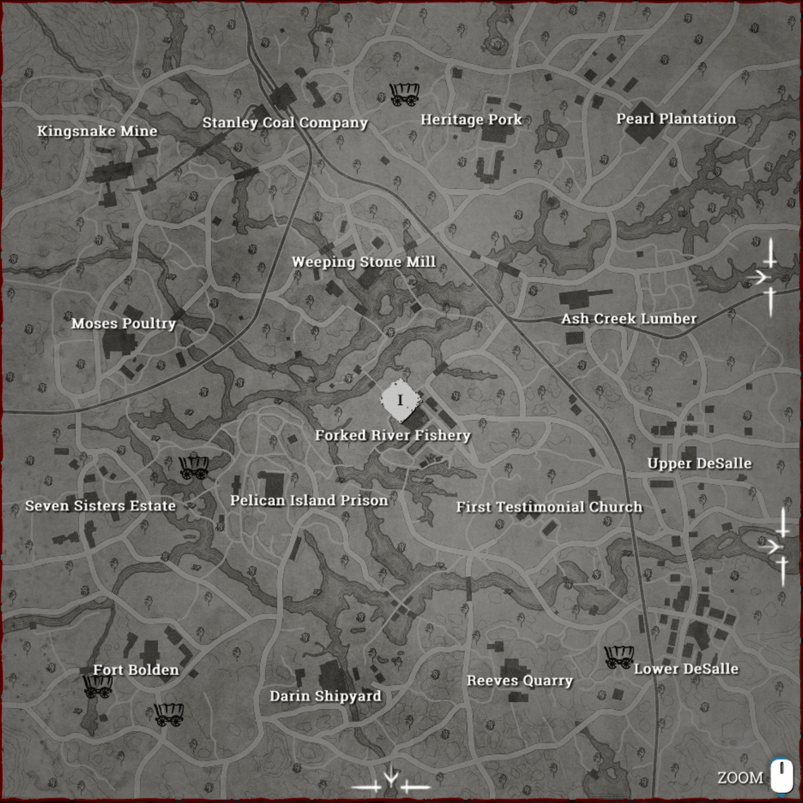
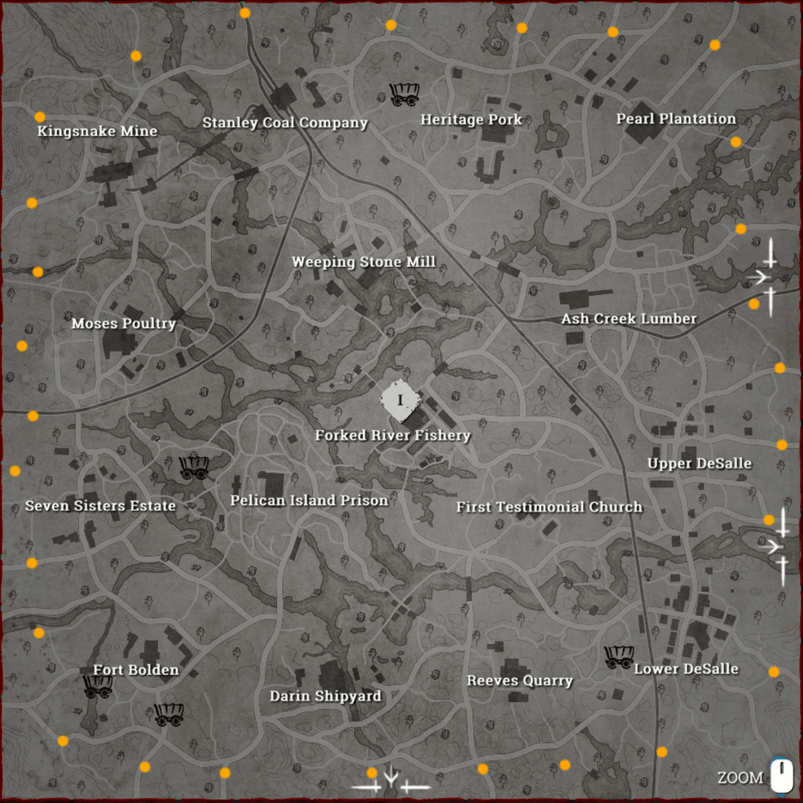
added ammo and penetration, map change, 1963

diff --git a/damage_range.html b/damage_range.html
@@ -28,11 +28,11 @@
                 <ul class="navbar-nav">
                     <li class="nav-item"><a class="nav-link active" href="home.html" style="color: #b4ae75;filter: brightness(109%);">Home</a></li>
                     <li class="nav-item"><a class="nav-link active" href="damage_range.html" style="color: #b4ae75;filter: brightness(109%);">Damage &amp; Range</a></li>
-                    <li class="nav-item"><a class="nav-link active" href="#" style="color: #b4ae75;filter: brightness(109%);">Weapons Library</a></li>
-                    <li class="nav-item"><a class="nav-link active" href="#" style="color: #b4ae75;filter: brightness(109%);">Items</a></li>
+                    <li class="nav-item isDisabled"><a class="nav-link active" href="#" style="color: #b4ae75;filter: brightness(109%);">Weapons Library</a></li>
+                    <li class="nav-item isDisabled"><a class="nav-link active" href="#" style="color: #b4ae75;filter: brightness(109%);">Items</a></li>
                     <li class="nav-item"><a class="nav-link active" href="traits.html" style="color: #b4ae75;filter: brightness(109%);">Traits</a></li>
                     <li class="nav-item"><a class="nav-link active" href="maps.html" style="color: #b4ae75;filter: brightness(109%);">Maps</a></li>
-                    <li class="nav-item"><a class="nav-link active" href="#" style="color: #b4ae75;filter: brightness(109%);">Russian Roulette</a></li>
+                    <li class="nav-item isDisabled"><a class="nav-link active" href="#" style="color: #b4ae75;filter: brightness(109%);">Russian Roulette</a></li>
                 </ul>
             </div>
         </div>
@@ -56,6 +56,19 @@
                         </div>
                         <div class="col-4 mt-auto">
                             <input name="amountInput" id="rangeChoice" placeholder="range" class="number" type="number" value="" min="0" max="300" onkeyup="range(this.value)">
+                        </div>
+
+                    </div>
+                    <div class="row row-cols-2" style="margin-top: 23px;">
+                        <div class="col-6 d-xl-flex align-items-xl-center">
+                            <select disabled class="border-0 sw" name="specialAmmunitions" id="ammunition-select" onchange=>
+                                <option>Ammo</option>
+                            </select>
+                        </div>
+                        <div class="col-6 d-xl-flex align-items-xl-center">
+                            <select disabled class="border-0 sw" name="penetration" id="penetration-select" onchange= penValue>
+                                <option>Penetration</option>
+                            </select>
                         </div>
                     </div>
                 </div>
@@ -120,7 +133,6 @@
     </div>
     <script src="assets/bootstrap/js/bootstrap.min.js"></script>
     <script src="assets/js/weapons.js"></script>
-    <script src="./assets/js/damage.js"  type="text/javascript" ></script>
     <script src="./assets/js/script.js" type="text/javascript" ></script>
 </body>
 
@@ -132,7 +144,7 @@
     };
 
     const bodyParts = ['head', 'torso', 'stomach', 'arms', 'legs'];
-
+    // Array body part damage
     const compactBullet = [4.61, 1, .76, .61, .53];
     const compactPBullet = [4.61, 1, .76, .61, .53];
     const compactPSilBullet = [4.61, 1, .76, .61, .53];
@@ -146,9 +158,20 @@
     const shotgunBullet = [1.5, 1.3, 1.2, .8, .5];
     const specialNitro = [2, .52, .52, .25, .2];
     const specialDolch = [3.07, 1, .76, .61, .53];
-    const bomblanceBullet = [1, 1, 1, 1, 1]; // Array body part damage
+    const bomblanceBullet = [1, 1, 1, 1, 1]; 
 
+    // special ammo // 
+    const mediumFMJ = [3.84, 1, .76, .61, .53];
+    const longFMJ = [3.07, 1, .76, .61, .53];
+    const Spitzer = [3.07, 1, .76, .61, .53];
+    const longSilFMJ = [3.07, 1, .76, .61, .53];
+    const dumdum = 0.9;
+    const incendary = 0.75;
+    const poison = 0.75;
 
+    // penetration // 
+    const penetration = [1, 2, 3, 4, 5, 6, 7, 8]
+    
     const ammunitions = {
         Compact: compactBullet,
         CompactPistol: compactPBullet,
@@ -164,7 +187,18 @@
         SpecialNitro: specialNitro,
         SpecialDolch: specialDolch,
         Special: bomblanceBullet,
+
     };
+
+    const specialAmmunitions = {
+        MediumFMJ: mediumFMJ,
+        LongFMJ: longFMJ,
+        Spitzer: Spitzer,
+        LongSilFMJ: longSilFMJ,
+        Dumdum: dumdum,
+        Incendary: incendary,
+        Poison: poison,
+    }
 
     const getCorrectIndex = (range, rangeAmmunitionType) => {
         let index = -1;
@@ -248,7 +282,7 @@
                 }
                 break;
             case 'Compact':
-                if (range >= 0 && range < 20)
+                if (range >= 0 && range <= 20)
                     multiplier = 1;
                 else {
                     zw = [ [1,1], [1, 0.86], [0.86, 0.58], [0.58, 0.43], [0.43, 0.27], [0.27, 0.22], [0.1, 0.1] ];
@@ -259,7 +293,7 @@
                 }
                 break;
             case 'CompactPistol':
-                if (range >= 0 && range < 20)
+                if (range >= 0 && range <= 20)
                     multiplier = 1;
                 else {
                     zw = [ [1,1], [1, 0.84], [0.84, 0.53], [0.53, 0.37], [0.37, 0.25], [0.25, 0.22], [0.1, 0.1] ];
@@ -270,7 +304,7 @@
                 }
                 break;
             case 'CompactSil':
-                if (range >= 0 && range < 10)
+                if (range >= 0 && range <= 10)
                     multiplier = 1;
                 else {
                     zw = [ [1,1], [1, 0.77], [0.77, 0.39], [0.39, 0.28], [0.28, 0.21], [0.21, 0.2], [0.1, 0.1] ];
@@ -325,6 +359,15 @@
         document.getElementById('typeRange').value=value;
         showDamage();
     }
+    var select = document.getElementById('penetration-select');
+    var penValue = document.createDocumentFragment();
+    penetration.forEach(function(penetration, index) {
+        var opt = document.createElement('option');
+        opt.innerHTML = penetration;
+        opt.value = penetration;
+        penValue.appendChild(opt);
+    });
+    select.appendChild(penValue);
 
     function selectWeapon(e, selectedType) {
         data = weapons[selectedType].filter( el => el.value === e)[0];

diff --git a/home.html b/home.html
@@ -24,11 +24,11 @@
                 <ul class="navbar-nav" >
                     <li class="nav-item"><a class="nav-link" href="home.html" style="color: #b4ae75;filter: brightness(109%);">Home</a></li>
                     <li class="nav-item"><a class="nav-link" href="damage_range.html" style="color: #b4ae75;filter: brightness(109%);">Damage &amp; Range</a></li>
-                    <li class="nav-item"><a class="nav-link" href="#" style="color: #b4ae75;filter: brightness(109%);">Weapons Library</a></li>
-                    <li class="nav-item"><a class="nav-link" href="#" style="color: #b4ae75;filter: brightness(109%);">Items</a></li>
+                    <li class="nav-item"><a class="nav-link isDisabled" href="#" style="color: #b4ae75;filter: brightness(109%);">Weapons Library</a></li>
+                    <li class="nav-item"><a class="nav-link isDisabled" href="#" style="color: #b4ae75;filter: brightness(109%);">Items</a></li>
                     <li class="nav-item"><a class="nav-link" href="traits.html" style="color: #b4ae75;filter: brightness(109%);">Traits</a></li>
                     <li class="nav-item"><a class="nav-link" href="maps.html" style="color: #b4ae75;filter: brightness(109%);">Maps</a></li>
-                    <li class="nav-item"><a class="nav-link" href="#" style="color: #b4ae75;filter: brightness(109%);">Russian Roulette</a></li>
+                    <li class="nav-item"><a class="nav-link isDisabled" href="#" style="color: #b4ae75;filter: brightness(109%);">Russian Roulette</a></li>
                 </ul>
             </div>
         </div>
@@ -47,18 +47,18 @@
   Upcoming features : 
 
   • Interactive map with all the compounds and zones on the map.
-  • Special ammunitions will be available for the damage and range calculation.
+  • Special ammunitions and Penetration bullet will be available for the damage and range calculation.
   • The Russian Roulette will allow you to generate a random loadout.
   • Hunters and Legendary Hunters library.
   • How to gain XP or money.
-  • Weapons and Item library.
+  • Weapons and Items library.
   • Animated background and better visual.
     
   Known issues:
 
   • The damage and range for shotguns is approximate.
   • No multiplier for arrows, max range is 10m.
-  • New weapons are not available yet.
+  • Range of the uppercut unknown.
 </textarea></div>
     </div>
     <div class="row gx-0 gy-0 justify-content-center align-items-center">

diff --git a/maps.html b/maps.html
@@ -25,11 +25,11 @@
                 <ul class="navbar-nav">
                     <li class="nav-item"><a class="nav-link active" href="home.html" style="color: #b4ae75;filter: brightness(109%);">Home</a></li>
                     <li class="nav-item"><a class="nav-link active" href="damage_range.html" style="color: #b4ae75;filter: brightness(109%);">Damage &amp; Range</a></li>
-                    <li class="nav-item"><a class="nav-link active" href="#" style="color: #b4ae75;filter: brightness(109%);">Weapons Library</a></li>
-                    <li class="nav-item"><a class="nav-link active" href="#" style="color: #b4ae75;filter: brightness(109%);">Items</a></li>
+                    <li class="nav-item isDisabled"><a class="nav-link active" href="#" style="color: #b4ae75;filter: brightness(109%);">Weapons Library</a></li>
+                    <li class="nav-item isDisabled"><a class="nav-link active" href="#" style="color: #b4ae75;filter: brightness(109%);">Items</a></li>
                     <li class="nav-item"><a class="nav-link active" href="traits.html" style="color: #b4ae75;filter: brightness(109%);">Traits</a></li>
                     <li class="nav-item"><a class="nav-link active" href="maps.html" style="color: #b4ae75;filter: brightness(109%);">Maps</a></li>
-                    <li class="nav-item"><a class="nav-link active" href="#" style="color: #b4ae75;filter: brightness(109%);">Russian Roulette</a></li>
+                    <li class="nav-item isDisabled"><a class="nav-link active" href="#" style="color: #b4ae75;filter: brightness(109%);">Russian Roulette</a></li>
                 </ul>
             </div>
         </div>
@@ -42,6 +42,18 @@
     </div>
     <div class="row justify-content-center align-items-center" style="margin-top: 60px;">
         <div class="col-auto align-self-center m-auto">
+            <div class="all-tooltips">
+                <div class="tooltip tooltip-1">
+                    <div class="pin"></div>
+                    <div class="tooltip-content">
+                        <div class="arrow"></div>
+                        <div class="content">
+                            <h1>Hello Tooltip-1</h1>
+                            <p>okaytext</p>
+                        </div>
+                    </div>
+                </div>
+            </div>
             <img id="map" class="img-fluid">
         </div>
     </div>

diff --git a/traits.html b/traits.html
@@ -26,11 +26,11 @@
                 <ul class="navbar-nav">
                     <li class="nav-item"><a class="nav-link active" href="home.html" style="color: #b4ae75;filter: brightness(109%);">Home</a></li>
                     <li class="nav-item"><a class="nav-link active" href="damage_range.html" style="color: #b4ae75;filter: brightness(109%);">Damage &amp; Range</a></li>
-                    <li class="nav-item"><a class="nav-link active" href="#" style="color: #b4ae75;filter: brightness(109%);">Weapons Library</a></li>
-                    <li class="nav-item"><a class="nav-link active" href="#" style="color: #b4ae75;filter: brightness(109%);">Items</a></li>
+                    <li class="nav-item isDisabled"><a class="nav-link active" href="#" style="color: #b4ae75;filter: brightness(109%);">Weapons Library</a></li>
+                    <li class="nav-item isDisabled"><a class="nav-link active" href="#" style="color: #b4ae75;filter: brightness(109%);">Items</a></li>
                     <li class="nav-item"><a class="nav-link active" href="traits.html" style="color: #b4ae75;filter: brightness(109%);">Traits</a></li>
                     <li class="nav-item"><a class="nav-link active" href="maps.html" style="color: #b4ae75;filter: brightness(109%);">Maps</a></li>
-                    <li class="nav-item"><a class="nav-link active" href="#" style="color: #b4ae75;filter: brightness(109%);">Russian Roulette</a></li>
+                    <li class="nav-item isDisabled"><a class="nav-link active" href="#" style="color: #b4ae75;filter: brightness(109%);">Russian Roulette</a></li>
                 </ul>
             </div>
         </div>

diff --git a/assets/js/weapons.js b/assets/js/weapons.js
@@ -315,6 +315,15 @@
         distance: 11,
     },
     {
+        label: "Winfield 1893 Slate",
+        value: "winfieldSlate",
+        cost: "250$",
+        ammunition: "Shotgun",
+        unlock: "Rank 64 + xp",
+        damage: 180,
+        distance: 12,
+    },
+    {
         label: "Winfield M1873",
         value: "winfield",
         cost: "75$",
@@ -612,13 +621,23 @@
         multiplier : 0.53,
     },
     {
+        label: "Caldwell 92 New Army",
+        value: "caldwell92",
+        cost: "90$",
+        ammunition: "CompactPistol",
+        unlock: "Rank 12 +xp",
+        damage: 104,
+        distance: 84,
+        multiplier : 0.53,
+    },
+    {
         label: "Caldwell Conversion Chain Pistol",
         value: "caldwellconversionc",
         cost: "50$",
         ammunition: "CompactPistol",
         unlock: "Rank 22 +xp",
-        damage: 104,
-        distance: 84,
+        damage: 97,
+        distance: 79,
         multiplier : 0.53,
     },
     {
@@ -764,3 +783,4 @@
 ];
 
 const weapons = { large_weapons, medium_weapons, small_weapons }
+

diff --git a/assets/css/maps.css b/assets/css/maps.css
@@ -48,3 +48,41 @@
     border-color: #b4ae75;
     background-color: #818181;
   }
+
+  .all-tooltips {
+    position: relative;
+    width: 100%;
+    height: 100%;
+    left : 0;
+    top: 0;
+  }
+
+  .tooltip-content {
+    position: relative;
+    color: white;
+    background-color: white;
+    box-shadow: 0px 0px 20px #00000020;
+    padding: 30px;
+    border-radius: 8px;
+    max-width: 300px;
+    /*opacity: 0;
+    pointer-events: none;*/
+    z-index: 1;
+  }
+
+  .tooltip-content .arrow {
+    position: relative;
+    width: 10px;
+    height: 10px;
+    background-color: aqua;
+    border: 10px solid aqua;
+    border-bottom-color: red;
+  }
+
+  .isDisabled {
+    color: currentColor;
+    cursor: not-allowed;
+    opacity: 0.5;
+    text-decoration: none;
+  }
+  

diff --git a/assets/css/traits.css b/assets/css/traits.css
@@ -48,18 +48,20 @@
   .lol span {
     z-index: 1;
     display: none;
+    font-family: Cambria, Cochin, Georgia, Times, 'Times New Roman', serif;
     position: absolute;
-    background: rgb(51, 51, 51);
-    color: #fff;
+    background: black;
+    color: #b4ae75;
     overflow-wrap: break-word;
     width: 475px;
     text-align: center;
+    padding: 5px;
   }
 
   .lol:hover span {
     display:inline-block;
     position: absolute;
-    background-color: rgb(36, 36, 36);
+    background-color: rgb(24, 23, 23);
   }
 
   .traitImg {
@@ -133,3 +135,11 @@
   .hidden-desc {
     display: none;
   }
+
+  .isDisabled {
+    color: currentColor;
+    cursor: not-allowed;
+    opacity: 0.5;
+    text-decoration: none;
+  }
+  

diff --git a/assets/js/traitsImage.js b/assets/js/traitsImage.js
@@ -51,7 +51,7 @@ const traitsImage = [
         title : "Signee",
         name : "signee",
         type : "supportive",
-        description : "",
+        description : "Who cares about this one anyway ? kek Too lazy to put that off I swear",
     },
     {
         title : "Determination",

diff --git a/assets/css/damage_range.css b/assets/css/damage_range.css
@@ -73,3 +73,11 @@
     color: white;
     box-shadow: 0 0px 0px 0 rgba(241, 205, 205, 0.24), 0 0px 0px 0 rgba(185, 164, 164, 0.19);
   }
+
+  .isDisabled {
+    color: currentColor;
+    cursor: not-allowed;
+    opacity: 0.5;
+    text-decoration: none;
+  }
+  

diff --git a/assets/css/home.css b/assets/css/home.css
@@ -57,3 +57,10 @@
   text-align: center;
 
 }
+
+.isDisabled {
+  color: currentColor;
+  cursor: not-allowed;
+  opacity: 0.5;
+  text-decoration: none;
+}
